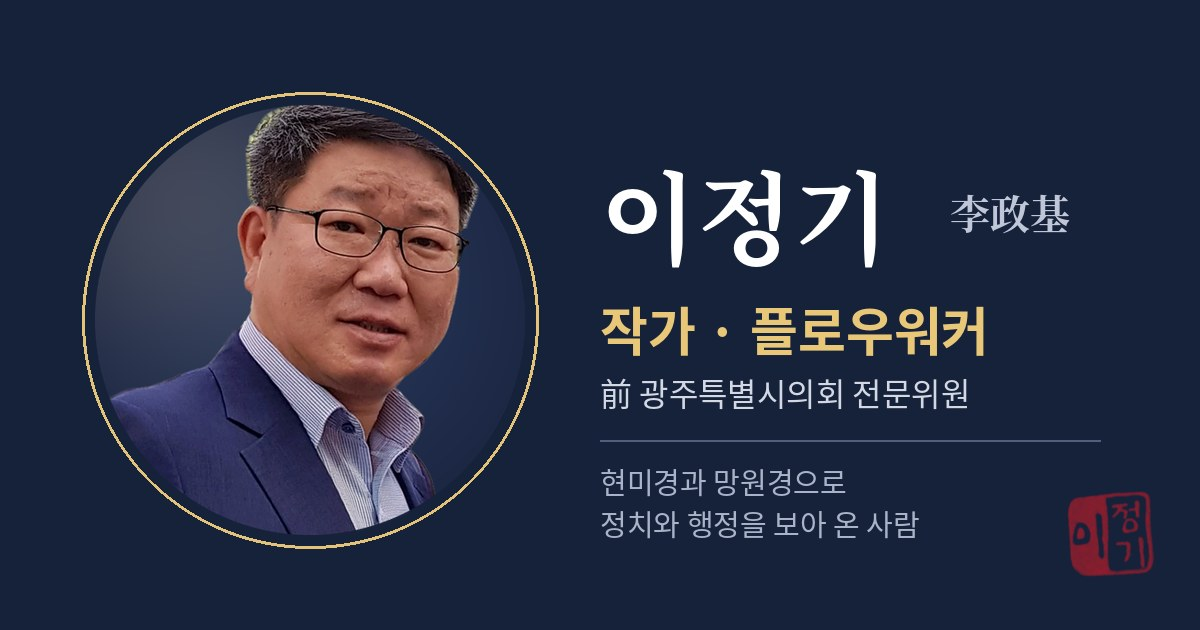
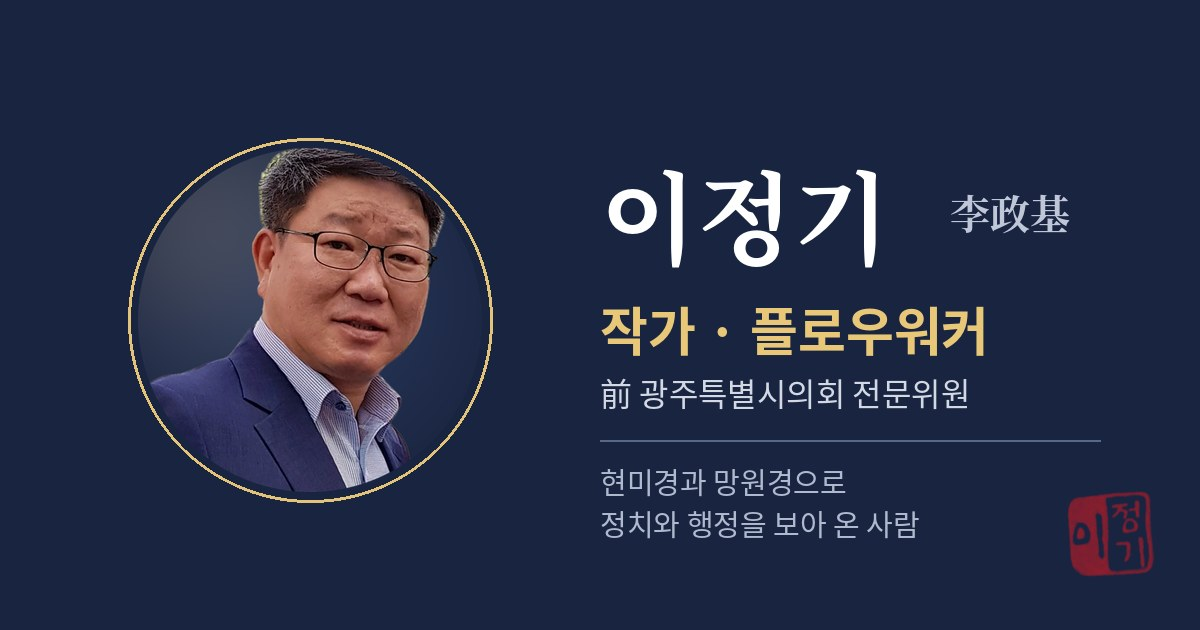
카톡 미리보기 이미지 배경 밝기와 사진 크기 조정
Claude-Session: https://claude.ai/code/session_01KLmiwAD6x3nYCUqAtCkAyS

Changed region(s): [[0.0617, 0.1206, 0.4625, 0.8746]]

diff --git a/index.html b/index.html
@@ -9,7 +9,7 @@
 <meta property="og:type" content="profile">
 <meta property="og:title" content="이정기 | 작가·플로우워커">
 <meta property="og:description" content="前 광주특별시의회 전문위원 · 현미경과 망원경으로 정치와 행정을 보아 온 사람">
-<meta property="og:image" content="https://abcorea-creator.github.io/assets/og-image.jpg?v=2">
+<meta property="og:image" content="https://abcorea-creator.github.io/assets/og-image.jpg?v=3">
 <meta property="og:url" content="https://abcorea-creator.github.io/">
 <link rel="icon" href="assets/favicon.png">
 <link rel="apple-touch-icon" href="assets/apple-touch-icon.png">
